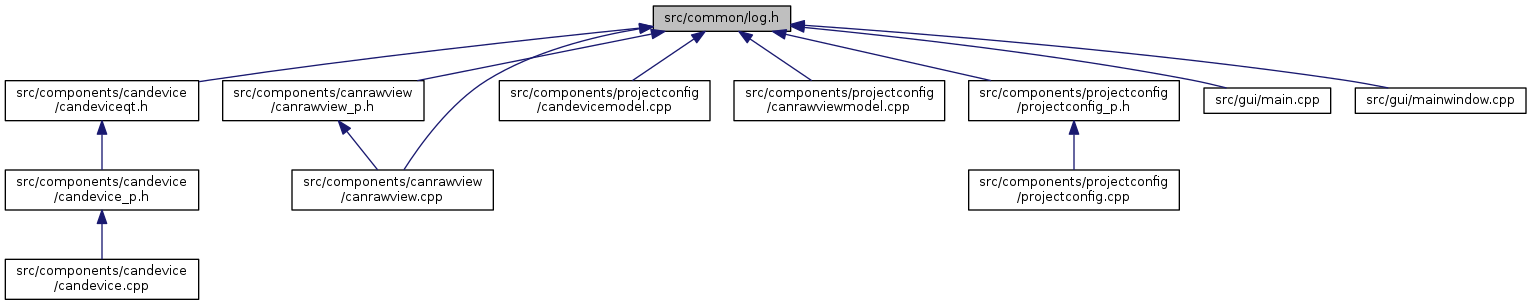
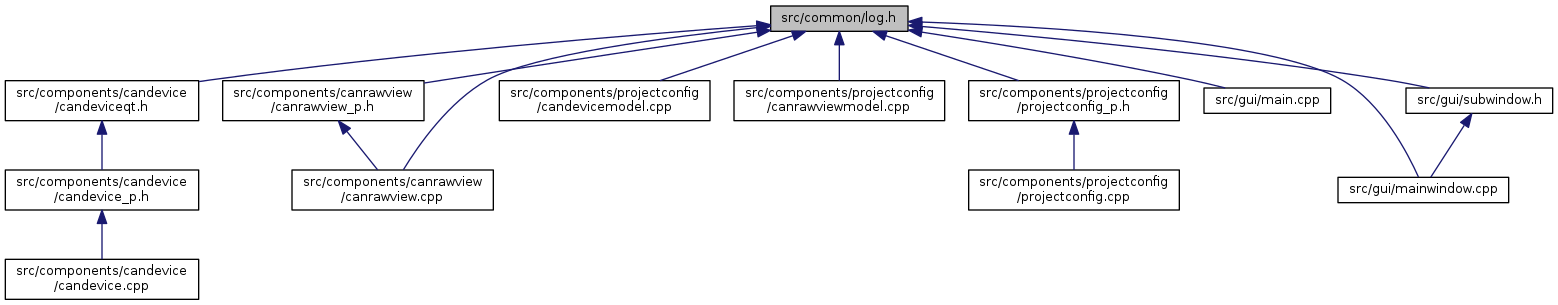
Deploy code docs to GitHub Pages Travis build: 318
Commit: 55465b2704b2b1ba9fbbc4ec79028f995d7c5a07

diff --git a/master/subwindow_8h_source.html b/master/subwindow_8h_source.html
@@ -108,8 +108,13 @@ $(document).ready(function(){initNavTree('subwindow_8h_source.html','');});
 <div class="title">subwindow.h</div>  </div>
 </div><!--header-->
 <div class="contents">
-<a href="subwindow_8h.html">Go to the documentation of this file.</a><div class="fragment"><div class="line"><a name="l00001"></a><span class="lineno">    1</span>&#160;<span class="preprocessor">#ifndef __SUBWINDOW_H</span></div><div class="line"><a name="l00002"></a><span class="lineno">    2</span>&#160;<span class="preprocessor">#define __SUBWINDOW_H</span></div><div class="line"><a name="l00003"></a><span class="lineno">    3</span>&#160;</div><div class="line"><a name="l00004"></a><span class="lineno">    4</span>&#160;<span class="preprocessor">#include &lt;QMdiSubWindow&gt;</span></div><div class="line"><a name="l00005"></a><span class="lineno">    5</span>&#160;<span class="preprocessor">#include &lt;QPushButton&gt;</span></div><div class="line"><a name="l00006"></a><span class="lineno">    6</span>&#160;</div><div class="line"><a name="l00007"></a><span class="lineno"><a class="line" href="struct_sub_window.html">    7</a></span>&#160;<span class="keyword">struct </span><a class="code" href="struct_sub_window.html">SubWindow</a> : <span class="keyword">public</span> QMdiSubWindow {</div><div class="line"><a name="l00008"></a><span class="lineno"><a class="line" href="struct_sub_window.html#a1b4b2dec3bd9137440c809bde3447f0c">    8</a></span>&#160;    <span class="keyword">virtual</span> <span class="keywordtype">void</span> <a class="code" href="struct_sub_window.html#a1b4b2dec3bd9137440c809bde3447f0c">closeEvent</a>(QCloseEvent* event)<span class="keyword"> override</span></div><div class="line"><a name="l00009"></a><span class="lineno">    9</span>&#160;<span class="keyword">    </span>{</div><div class="line"><a name="l00010"></a><span class="lineno">   10</span>&#160;        <a class="code" href="log_8h.html#a05b412e36545f9b557c32234fd8d0f30">cds_debug</a>(<span class="stringliteral">&quot;On closing&quot;</span>);</div><div class="line"><a name="l00011"></a><span class="lineno">   11</span>&#160;</div><div class="line"><a name="l00012"></a><span class="lineno">   12</span>&#160;        <span class="comment">// Allow to close the window but prevent deletion of the widget</span></div><div class="line"><a name="l00013"></a><span class="lineno">   13</span>&#160;        setWidget(<span class="keyword">nullptr</span>);</div><div class="line"><a name="l00014"></a><span class="lineno">   14</span>&#160;        QMdiSubWindow::closeEvent(event);</div><div class="line"><a name="l00015"></a><span class="lineno">   15</span>&#160;    }</div><div class="line"><a name="l00016"></a><span class="lineno">   16</span>&#160;};</div><div class="line"><a name="l00017"></a><span class="lineno">   17</span>&#160;</div><div class="line"><a name="l00018"></a><span class="lineno">   18</span>&#160;<span class="preprocessor">#endif </span><span class="comment">/* !__SUBWINDOW_H */</span><span class="preprocessor"></span></div><div class="ttc" id="struct_sub_window_html"><div class="ttname"><a href="struct_sub_window.html">SubWindow</a></div><div class="ttdef"><b>Definition:</b> subwindow.h:7</div></div>
-<div class="ttc" id="struct_sub_window_html_a1b4b2dec3bd9137440c809bde3447f0c"><div class="ttname"><a href="struct_sub_window.html#a1b4b2dec3bd9137440c809bde3447f0c">SubWindow::closeEvent</a></div><div class="ttdeci">virtual void closeEvent(QCloseEvent *event) override</div><div class="ttdef"><b>Definition:</b> subwindow.h:8</div></div>
+<a href="subwindow_8h.html">Go to the documentation of this file.</a><div class="fragment"><div class="line"><a name="l00001"></a><span class="lineno">    1</span>&#160;<span class="preprocessor">#ifndef __SUBWINDOW_H</span></div><div class="line"><a name="l00002"></a><span class="lineno">    2</span>&#160;<span class="preprocessor">#define __SUBWINDOW_H</span></div><div class="line"><a name="l00003"></a><span class="lineno">    3</span>&#160;</div><div class="line"><a name="l00004"></a><span class="lineno">    4</span>&#160;<span class="preprocessor">#include &lt;QMdiSubWindow&gt;</span></div><div class="line"><a name="l00005"></a><span class="lineno">    5</span>&#160;<span class="preprocessor">#include &lt;QPushButton&gt;</span></div><div class="line"><a name="l00006"></a><span class="lineno">    6</span>&#160;<span class="preprocessor">#include &lt;QSize&gt;</span></div><div class="line"><a name="l00007"></a><span class="lineno">    7</span>&#160;<span class="preprocessor">#include &lt;<a class="code" href="log_8h.html">log.h</a>&gt;</span></div><div class="line"><a name="l00008"></a><span class="lineno">    8</span>&#160;</div><div class="line"><a name="l00009"></a><span class="lineno"><a class="line" href="struct_sub_window.html">    9</a></span>&#160;<span class="keyword">struct </span><a class="code" href="struct_sub_window.html">SubWindow</a> : <span class="keyword">public</span> QMdiSubWindow {</div><div class="line"><a name="l00010"></a><span class="lineno"><a class="line" href="struct_sub_window.html#a6f9daf9f3cf4ad881f3b452c32778b1d">   10</a></span>&#160;    <a class="code" href="struct_sub_window.html#a6f9daf9f3cf4ad881f3b452c32778b1d">SubWindow</a>(QWidget* parent)</div><div class="line"><a name="l00011"></a><span class="lineno">   11</span>&#160;        : QMdiSubWindow(parent)</div><div class="line"><a name="l00012"></a><span class="lineno">   12</span>&#160;    {</div><div class="line"><a name="l00013"></a><span class="lineno">   13</span>&#160;        setAttribute(Qt::WA_DeleteOnClose);</div><div class="line"><a name="l00014"></a><span class="lineno">   14</span>&#160;    }</div><div class="line"><a name="l00015"></a><span class="lineno">   15</span>&#160;</div><div class="line"><a name="l00016"></a><span class="lineno"><a class="line" href="struct_sub_window.html#a1b4b2dec3bd9137440c809bde3447f0c">   16</a></span>&#160;    <span class="keyword">virtual</span> <span class="keywordtype">void</span> <a class="code" href="struct_sub_window.html#a1b4b2dec3bd9137440c809bde3447f0c">closeEvent</a>(QCloseEvent* event)<span class="keyword"> override</span></div><div class="line"><a name="l00017"></a><span class="lineno">   17</span>&#160;<span class="keyword">    </span>{</div><div class="line"><a name="l00018"></a><span class="lineno">   18</span>&#160;        <a class="code" href="log_8h.html#a05b412e36545f9b557c32234fd8d0f30">cds_debug</a>(<span class="stringliteral">&quot;On closing&quot;</span>);</div><div class="line"><a name="l00019"></a><span class="lineno">   19</span>&#160;</div><div class="line"><a name="l00020"></a><span class="lineno">   20</span>&#160;        <span class="comment">// Allow to close the window but prevent deletion of the widget</span></div><div class="line"><a name="l00021"></a><span class="lineno">   21</span>&#160;        setWidget(<span class="keyword">nullptr</span>);</div><div class="line"><a name="l00022"></a><span class="lineno">   22</span>&#160;        QMdiSubWindow::closeEvent(event);</div><div class="line"><a name="l00023"></a><span class="lineno">   23</span>&#160;    }</div><div class="line"><a name="l00024"></a><span class="lineno">   24</span>&#160;</div><div class="line"><a name="l00025"></a><span class="lineno"><a class="line" href="struct_sub_window.html#a81428e95192aa942f6a4b89e64b51b06">   25</a></span>&#160;    <span class="keyword">virtual</span> QSize <a class="code" href="struct_sub_window.html#a81428e95192aa942f6a4b89e64b51b06">minimumSizeHint</a>()<span class="keyword"> const override</span></div><div class="line"><a name="l00026"></a><span class="lineno">   26</span>&#160;<span class="keyword">    </span>{</div><div class="line"><a name="l00027"></a><span class="lineno">   27</span>&#160;        <span class="keywordflow">return</span> { 200, 100 };</div><div class="line"><a name="l00028"></a><span class="lineno">   28</span>&#160;    }</div><div class="line"><a name="l00029"></a><span class="lineno">   29</span>&#160;</div><div class="line"><a name="l00030"></a><span class="lineno"><a class="line" href="struct_sub_window.html#aeeea59c37ad33ad7160a5831734d9181">   30</a></span>&#160;    <span class="keyword">virtual</span> QSize <a class="code" href="struct_sub_window.html#aeeea59c37ad33ad7160a5831734d9181">sizeHint</a>()<span class="keyword"> const override</span></div><div class="line"><a name="l00031"></a><span class="lineno">   31</span>&#160;<span class="keyword">    </span>{</div><div class="line"><a name="l00032"></a><span class="lineno">   32</span>&#160;        QSize size;</div><div class="line"><a name="l00033"></a><span class="lineno">   33</span>&#160;</div><div class="line"><a name="l00034"></a><span class="lineno">   34</span>&#160;        <span class="keywordflow">if</span> (parentWidget()) {</div><div class="line"><a name="l00035"></a><span class="lineno">   35</span>&#160;            size.setHeight(parentWidget()-&gt;size().height() / 2);</div><div class="line"><a name="l00036"></a><span class="lineno">   36</span>&#160;            size.setWidth(parentWidget()-&gt;size().width() / 2);</div><div class="line"><a name="l00037"></a><span class="lineno">   37</span>&#160;        } <span class="keywordflow">else</span> {</div><div class="line"><a name="l00038"></a><span class="lineno">   38</span>&#160;            <a class="code" href="log_8h.html#aadcd3161833f6a2188d288cfdc04d791">cds_error</a>(<span class="stringliteral">&quot;parentWidget() is NULL!&quot;</span>);</div><div class="line"><a name="l00039"></a><span class="lineno">   39</span>&#160;        }</div><div class="line"><a name="l00040"></a><span class="lineno">   40</span>&#160;</div><div class="line"><a name="l00041"></a><span class="lineno">   41</span>&#160;        <span class="keywordflow">return</span> size;</div><div class="line"><a name="l00042"></a><span class="lineno">   42</span>&#160;    }</div><div class="line"><a name="l00043"></a><span class="lineno">   43</span>&#160;};</div><div class="line"><a name="l00044"></a><span class="lineno">   44</span>&#160;</div><div class="line"><a name="l00045"></a><span class="lineno">   45</span>&#160;<span class="preprocessor">#endif </span><span class="comment">/* !__SUBWINDOW_H */</span><span class="preprocessor"></span></div><div class="ttc" id="log_8h_html_aadcd3161833f6a2188d288cfdc04d791"><div class="ttname"><a href="log_8h.html#aadcd3161833f6a2188d288cfdc04d791">cds_error</a></div><div class="ttdeci">#define cds_error(fmt,...)</div><div class="ttdef"><b>Definition:</b> log.h:19</div></div>
+<div class="ttc" id="struct_sub_window_html_a81428e95192aa942f6a4b89e64b51b06"><div class="ttname"><a href="struct_sub_window.html#a81428e95192aa942f6a4b89e64b51b06">SubWindow::minimumSizeHint</a></div><div class="ttdeci">virtual QSize minimumSizeHint() const override</div><div class="ttdef"><b>Definition:</b> subwindow.h:25</div></div>
+<div class="ttc" id="struct_sub_window_html_aeeea59c37ad33ad7160a5831734d9181"><div class="ttname"><a href="struct_sub_window.html#aeeea59c37ad33ad7160a5831734d9181">SubWindow::sizeHint</a></div><div class="ttdeci">virtual QSize sizeHint() const override</div><div class="ttdef"><b>Definition:</b> subwindow.h:30</div></div>
+<div class="ttc" id="struct_sub_window_html"><div class="ttname"><a href="struct_sub_window.html">SubWindow</a></div><div class="ttdef"><b>Definition:</b> subwindow.h:9</div></div>
+<div class="ttc" id="struct_sub_window_html_a1b4b2dec3bd9137440c809bde3447f0c"><div class="ttname"><a href="struct_sub_window.html#a1b4b2dec3bd9137440c809bde3447f0c">SubWindow::closeEvent</a></div><div class="ttdeci">virtual void closeEvent(QCloseEvent *event) override</div><div class="ttdef"><b>Definition:</b> subwindow.h:16</div></div>
+<div class="ttc" id="struct_sub_window_html_a6f9daf9f3cf4ad881f3b452c32778b1d"><div class="ttname"><a href="struct_sub_window.html#a6f9daf9f3cf4ad881f3b452c32778b1d">SubWindow::SubWindow</a></div><div class="ttdeci">SubWindow(QWidget *parent)</div><div class="ttdef"><b>Definition:</b> subwindow.h:10</div></div>
+<div class="ttc" id="log_8h_html"><div class="ttname"><a href="log_8h.html">log.h</a></div></div>
 <div class="ttc" id="log_8h_html_a05b412e36545f9b557c32234fd8d0f30"><div class="ttname"><a href="log_8h.html#a05b412e36545f9b557c32234fd8d0f30">cds_debug</a></div><div class="ttdeci">#define cds_debug(fmt,...)</div><div class="ttdef"><b>Definition:</b> log.h:11</div></div>
 </div><!-- fragment --></div><!-- contents -->
 </div><!-- doc-content -->

diff --git a/master/struct_sub_window.html b/master/struct_sub_window.html
@@ -132,9 +132,40 @@ Collaboration diagram for SubWindow:</div>
 <table class="memberdecls">
 <tr class="heading"><td colspan="2"><h2 class="groupheader"><a name="pub-methods"></a>
 Public Member Functions</h2></td></tr>
+<tr class="memitem:a6f9daf9f3cf4ad881f3b452c32778b1d"><td class="memItemLeft" align="right" valign="top">&#160;</td><td class="memItemRight" valign="bottom"><a class="el" href="struct_sub_window.html#a6f9daf9f3cf4ad881f3b452c32778b1d">SubWindow</a> (QWidget *parent)</td></tr>
+<tr class="separator:a6f9daf9f3cf4ad881f3b452c32778b1d"><td class="memSeparator" colspan="2">&#160;</td></tr>
 <tr class="memitem:a1b4b2dec3bd9137440c809bde3447f0c"><td class="memItemLeft" align="right" valign="top">virtual void&#160;</td><td class="memItemRight" valign="bottom"><a class="el" href="struct_sub_window.html#a1b4b2dec3bd9137440c809bde3447f0c">closeEvent</a> (QCloseEvent *event) override</td></tr>
 <tr class="separator:a1b4b2dec3bd9137440c809bde3447f0c"><td class="memSeparator" colspan="2">&#160;</td></tr>
+<tr class="memitem:a81428e95192aa942f6a4b89e64b51b06"><td class="memItemLeft" align="right" valign="top">virtual QSize&#160;</td><td class="memItemRight" valign="bottom"><a class="el" href="struct_sub_window.html#a81428e95192aa942f6a4b89e64b51b06">minimumSizeHint</a> () const override</td></tr>
+<tr class="separator:a81428e95192aa942f6a4b89e64b51b06"><td class="memSeparator" colspan="2">&#160;</td></tr>
+<tr class="memitem:aeeea59c37ad33ad7160a5831734d9181"><td class="memItemLeft" align="right" valign="top">virtual QSize&#160;</td><td class="memItemRight" valign="bottom"><a class="el" href="struct_sub_window.html#aeeea59c37ad33ad7160a5831734d9181">sizeHint</a> () const override</td></tr>
+<tr class="separator:aeeea59c37ad33ad7160a5831734d9181"><td class="memSeparator" colspan="2">&#160;</td></tr>
 </table>
+<h2 class="groupheader">Constructor &amp; Destructor Documentation</h2>
+<a class="anchor" id="a6f9daf9f3cf4ad881f3b452c32778b1d"></a>
+<div class="memitem">
+<div class="memproto">
+<table class="mlabels">
+  <tr>
+  <td class="mlabels-left">
+      <table class="memname">
+        <tr>
+          <td class="memname">SubWindow::SubWindow </td>
+          <td>(</td>
+          <td class="paramtype">QWidget *&#160;</td>
+          <td class="paramname"><em>parent</em></td><td>)</td>
+          <td></td>
+        </tr>
+      </table>
+  </td>
+  <td class="mlabels-right">
+<span class="mlabels"><span class="mlabel">inline</span></span>  </td>
+  </tr>
+</table>
+</div><div class="memdoc">
+
+</div>
+</div>
 <h2 class="groupheader">Member Function Documentation</h2>
 <a class="anchor" id="a1b4b2dec3bd9137440c809bde3447f0c"></a>
 <div class="memitem">
@@ -149,6 +180,52 @@ Public Member Functions</h2></td></tr>
           <td class="paramtype">QCloseEvent *&#160;</td>
           <td class="paramname"><em>event</em></td><td>)</td>
           <td></td>
+        </tr>
+      </table>
+  </td>
+  <td class="mlabels-right">
+<span class="mlabels"><span class="mlabel">inline</span><span class="mlabel">override</span><span class="mlabel">virtual</span></span>  </td>
+  </tr>
+</table>
+</div><div class="memdoc">
+
+</div>
+</div>
+<a class="anchor" id="a81428e95192aa942f6a4b89e64b51b06"></a>
+<div class="memitem">
+<div class="memproto">
+<table class="mlabels">
+  <tr>
+  <td class="mlabels-left">
+      <table class="memname">
+        <tr>
+          <td class="memname">virtual QSize SubWindow::minimumSizeHint </td>
+          <td>(</td>
+          <td class="paramname"></td><td>)</td>
+          <td> const</td>
+        </tr>
+      </table>
+  </td>
+  <td class="mlabels-right">
+<span class="mlabels"><span class="mlabel">inline</span><span class="mlabel">override</span><span class="mlabel">virtual</span></span>  </td>
+  </tr>
+</table>
+</div><div class="memdoc">
+
+</div>
+</div>
+<a class="anchor" id="aeeea59c37ad33ad7160a5831734d9181"></a>
+<div class="memitem">
+<div class="memproto">
+<table class="mlabels">
+  <tr>
+  <td class="mlabels-left">
+      <table class="memname">
+        <tr>
+          <td class="memname">virtual QSize SubWindow::sizeHint </td>
+          <td>(</td>
+          <td class="paramname"></td><td>)</td>
+          <td> const</td>
         </tr>
       </table>
   </td>

diff --git a/master/search/functions_f.js b/master/search/functions_f.js
@@ -24,7 +24,9 @@ var searchData=
   ['setsimulationstate',['setSimulationState',['../class_can_raw_sender_private.html#ac2fd241370f1045c3735cb32d670eb31',1,'CanRawSenderPrivate::setSimulationState()'],['../class_new_line_manager.html#aa9e40fb8bda738c509ab9b9df60f2de1',1,'NewLineManager::SetSimulationState()']]],
   ['setsorting',['setSorting',['../struct_c_r_v_gui.html#ac9a2e89fe88079cbe80d6fd07d601f64',1,'CRVGui::setSorting()'],['../struct_c_r_v_gui_interface.html#aa11fdbb5d6e2a29997354b9537bda56a',1,'CRVGuiInterface::setSorting()']]],
   ['setuplogger',['setupLogger',['../main_8cpp.html#a677cf1dd7db1d278155bd2637971a267',1,'main.cpp']]],
+  ['sizehint',['sizeHint',['../struct_sub_window.html#aeeea59c37ad33ad7160a5831734d9181',1,'SubWindow']]],
   ['startsimulation',['startSimulation',['../struct_component_interface.html#a011c8464c9d77dcfd57f968655a05a19',1,'ComponentInterface::startSimulation()'],['../class_can_device.html#a80818d00bba585728b8e245f5bdaf4e7',1,'CanDevice::startSimulation()'],['../class_can_raw_sender.html#ad518a89ad799d2a7284ba5ad54f1b3e5',1,'CanRawSender::startSimulation()'],['../class_can_raw_view.html#a07b2bfca592ad37fcd170343fc904793',1,'CanRawView::startSimulation()'],['../class_project_config.html#a18f37c77fc6bc6840e9131c4f172c1fc',1,'ProjectConfig::startSimulation()']]],
   ['status',['status',['../class_can_device_data_out.html#aa58fee746094174d0927b1307d0597c3',1,'CanDeviceDataOut']]],
-  ['stopsimulation',['stopSimulation',['../struct_component_interface.html#ae5a20c5ff68df62ff745cae181d75772',1,'ComponentInterface::stopSimulation()'],['../class_can_device.html#a8d6a7e02abfd305219e78db47764d7b3',1,'CanDevice::stopSimulation()'],['../class_can_raw_sender.html#acf4ae8a4bbab2282a27d2a6001215802',1,'CanRawSender::stopSimulation()'],['../class_can_raw_view.html#a1ea137e8b0b4e6e23a7d84a9c7218ddc',1,'CanRawView::stopSimulation()'],['../class_project_config.html#a9a43e8a6f85ee87ac61799a8a9918772',1,'ProjectConfig::stopSimulation()']]]
+  ['stopsimulation',['stopSimulation',['../struct_component_interface.html#ae5a20c5ff68df62ff745cae181d75772',1,'ComponentInterface::stopSimulation()'],['../class_can_device.html#a8d6a7e02abfd305219e78db47764d7b3',1,'CanDevice::stopSimulation()'],['../class_can_raw_sender.html#acf4ae8a4bbab2282a27d2a6001215802',1,'CanRawSender::stopSimulation()'],['../class_can_raw_view.html#a1ea137e8b0b4e6e23a7d84a9c7218ddc',1,'CanRawView::stopSimulation()'],['../class_project_config.html#a9a43e8a6f85ee87ac61799a8a9918772',1,'ProjectConfig::stopSimulation()']]],
+  ['subwindow',['SubWindow',['../struct_sub_window.html#a6f9daf9f3cf4ad881f3b452c32778b1d',1,'SubWindow']]]
 ];

diff --git a/master/search/all_12.js b/master/search/all_12.js
@@ -26,10 +26,11 @@ var searchData=
   ['setsimulationstate',['setSimulationState',['../class_can_raw_sender_private.html#ac2fd241370f1045c3735cb32d670eb31',1,'CanRawSenderPrivate::setSimulationState()'],['../class_new_line_manager.html#aa9e40fb8bda738c509ab9b9df60f2de1',1,'NewLineManager::SetSimulationState()']]],
   ['setsorting',['setSorting',['../struct_c_r_v_gui.html#ac9a2e89fe88079cbe80d6fd07d601f64',1,'CRVGui::setSorting()'],['../struct_c_r_v_gui_interface.html#aa11fdbb5d6e2a29997354b9537bda56a',1,'CRVGuiInterface::setSorting()']]],
   ['setuplogger',['setupLogger',['../main_8cpp.html#a677cf1dd7db1d278155bd2637971a267',1,'main.cpp']]],
+  ['sizehint',['sizeHint',['../struct_sub_window.html#aeeea59c37ad33ad7160a5831734d9181',1,'SubWindow']]],
   ['startsimulation',['startSimulation',['../struct_component_interface.html#a011c8464c9d77dcfd57f968655a05a19',1,'ComponentInterface::startSimulation()'],['../class_can_device.html#a80818d00bba585728b8e245f5bdaf4e7',1,'CanDevice::startSimulation()'],['../class_can_raw_sender.html#ad518a89ad799d2a7284ba5ad54f1b3e5',1,'CanRawSender::startSimulation()'],['../class_can_raw_view.html#a07b2bfca592ad37fcd170343fc904793',1,'CanRawView::startSimulation()'],['../class_project_config.html#a18f37c77fc6bc6840e9131c4f172c1fc',1,'ProjectConfig::startSimulation()']]],
   ['status',['status',['../class_can_device_data_out.html#aa58fee746094174d0927b1307d0597c3',1,'CanDeviceDataOut']]],
   ['stopsimulation',['stopSimulation',['../struct_component_interface.html#ae5a20c5ff68df62ff745cae181d75772',1,'ComponentInterface::stopSimulation()'],['../class_can_device.html#a8d6a7e02abfd305219e78db47764d7b3',1,'CanDevice::stopSimulation()'],['../class_can_raw_sender.html#acf4ae8a4bbab2282a27d2a6001215802',1,'CanRawSender::stopSimulation()'],['../class_can_raw_view.html#a1ea137e8b0b4e6e23a7d84a9c7218ddc',1,'CanRawView::stopSimulation()'],['../class_project_config.html#a9a43e8a6f85ee87ac61799a8a9918772',1,'ProjectConfig::stopSimulation()']]],
-  ['subwindow',['SubWindow',['../struct_sub_window.html',1,'']]],
+  ['subwindow',['SubWindow',['../struct_sub_window.html',1,'SubWindow'],['../struct_sub_window.html#a6f9daf9f3cf4ad881f3b452c32778b1d',1,'SubWindow::SubWindow()']]],
   ['subwindow_2eh',['subwindow.h',['../subwindow_8h.html',1,'']]],
   ['swap',['swap',['../class_enum_iterator.html#a48c1f507be738412e5a54628f69c403d',1,'EnumIterator']]]
 ];

diff --git a/master/dir_000011_000001.html b/master/dir_000011_000001.html
@@ -98,7 +98,7 @@ $(document).ready(function(){initNavTree('dir_99d0482cf009f9d97a0877749b817f19.h
 </div>
 
 <div class="contents">
-<h3>gui &rarr; common Relation</h3><table class="dirtab"><tr class="dirtab"><th class="dirtab">File in src/gui</th><th class="dirtab">Includes file in src/common</th></tr><tr class="dirtab"><td class="dirtab"><a class="el" href="main_8cpp.html">main.cpp</a></td><td class="dirtab"><a class="el" href="log_8h.html">log.h</a></td></tr><tr class="dirtab"><td class="dirtab"><a class="el" href="mainwindow_8cpp.html">mainwindow.cpp</a></td><td class="dirtab"><a class="el" href="log_8h.html">log.h</a></td></tr><tr class="dirtab"><td class="dirtab"><a class="el" href="mainwindow_8cpp.html">mainwindow.cpp</a></td><td class="dirtab"><a class="el" href="modelvisitor_8h.html">modelvisitor.h</a></td></tr></table></div><!-- contents -->
+<h3>gui &rarr; common Relation</h3><table class="dirtab"><tr class="dirtab"><th class="dirtab">File in src/gui</th><th class="dirtab">Includes file in src/common</th></tr><tr class="dirtab"><td class="dirtab"><a class="el" href="main_8cpp.html">main.cpp</a></td><td class="dirtab"><a class="el" href="log_8h.html">log.h</a></td></tr><tr class="dirtab"><td class="dirtab"><a class="el" href="mainwindow_8cpp.html">mainwindow.cpp</a></td><td class="dirtab"><a class="el" href="log_8h.html">log.h</a></td></tr><tr class="dirtab"><td class="dirtab"><a class="el" href="mainwindow_8cpp.html">mainwindow.cpp</a></td><td class="dirtab"><a class="el" href="modelvisitor_8h.html">modelvisitor.h</a></td></tr><tr class="dirtab"><td class="dirtab"><a class="el" href="subwindow_8h.html">subwindow.h</a></td><td class="dirtab"><a class="el" href="log_8h.html">log.h</a></td></tr></table></div><!-- contents -->
 </div><!-- doc-content -->
 <!-- start footer part -->
 <div id="nav-path" class="navpath"><!-- id is needed for treeview function! -->

diff --git a/master/mainwindow_8cpp.html b/master/mainwindow_8cpp.html
@@ -124,13 +124,13 @@ Include dependency graph for mainwindow.cpp:</div>
 <div class="dyncontent">
 <div class="center"><img src="mainwindow_8cpp__incl.png" border="0" usemap="#src_2gui_2mainwindow_8cpp" alt=""/></div>
 <map name="src_2gui_2mainwindow_8cpp" id="src_2gui_2mainwindow_8cpp">
-<area shape="rect" id="node2" href="mainwindow_8h.html" title="mainwindow.h" alt="" coords="337,80,447,107"/>
-<area shape="rect" id="node7" href="log_8h.html" title="log.h" alt="" coords="701,80,755,107"/>
-<area shape="rect" id="node12" href="modelvisitor_8h.html" title="modelvisitor.h" alt="" coords="1181,80,1291,107"/>
-<area shape="rect" id="node20" href="subwindow_8h.html" title="subwindow.h" alt="" coords="1316,80,1417,107"/>
+<area shape="rect" id="node2" href="mainwindow_8h.html" title="mainwindow.h" alt="" coords="323,80,434,107"/>
+<area shape="rect" id="node7" href="log_8h.html" title="log.h" alt="" coords="601,155,655,181"/>
+<area shape="rect" id="node12" href="modelvisitor_8h.html" title="modelvisitor.h" alt="" coords="1073,80,1183,107"/>
+<area shape="rect" id="node20" href="subwindow_8h.html" title="subwindow.h" alt="" coords="775,80,876,107"/>
 <area shape="rect" id="node5" href="projectconfig_8h.html" title="projectconfig/projectconfig.h" alt="" coords="208,155,411,181"/>
-<area shape="rect" id="node15" href="visitor_8h.html" title="visitor.h" alt="" coords="1273,155,1343,181"/>
-<area shape="rect" id="node19" href="visitablewith_8h.html" title="visitablewith.h" alt="" coords="1398,229,1509,256"/>
+<area shape="rect" id="node15" href="visitor_8h.html" title="visitor.h" alt="" coords="1287,155,1358,181"/>
+<area shape="rect" id="node19" href="visitablewith_8h.html" title="visitablewith.h" alt="" coords="1467,229,1578,256"/>
 </map>
 </div>
 </div></div><!-- contents -->

diff --git a/master/struct_sub_window-members.html b/master/struct_sub_window-members.html
@@ -114,6 +114,9 @@ $(document).ready(function(){initNavTree('struct_sub_window.html','');});
 <p>This is the complete list of members for <a class="el" href="struct_sub_window.html">SubWindow</a>, including all inherited members.</p>
 <table class="directory">
   <tr class="even"><td class="entry"><a class="el" href="struct_sub_window.html#a1b4b2dec3bd9137440c809bde3447f0c">closeEvent</a>(QCloseEvent *event) override</td><td class="entry"><a class="el" href="struct_sub_window.html">SubWindow</a></td><td class="entry"><span class="mlabel">inline</span><span class="mlabel">virtual</span></td></tr>
+  <tr><td class="entry"><a class="el" href="struct_sub_window.html#a81428e95192aa942f6a4b89e64b51b06">minimumSizeHint</a>() const override</td><td class="entry"><a class="el" href="struct_sub_window.html">SubWindow</a></td><td class="entry"><span class="mlabel">inline</span><span class="mlabel">virtual</span></td></tr>
+  <tr class="even"><td class="entry"><a class="el" href="struct_sub_window.html#aeeea59c37ad33ad7160a5831734d9181">sizeHint</a>() const override</td><td class="entry"><a class="el" href="struct_sub_window.html">SubWindow</a></td><td class="entry"><span class="mlabel">inline</span><span class="mlabel">virtual</span></td></tr>
+  <tr><td class="entry"><a class="el" href="struct_sub_window.html#a6f9daf9f3cf4ad881f3b452c32778b1d">SubWindow</a>(QWidget *parent)</td><td class="entry"><a class="el" href="struct_sub_window.html">SubWindow</a></td><td class="entry"><span class="mlabel">inline</span></td></tr>
 </table></div><!-- contents -->
 </div><!-- doc-content -->
 <!-- start footer part -->

diff --git a/master/search/functions_a.js b/master/search/functions_a.js
@@ -5,6 +5,7 @@ var searchData=
   ['mainwidgetdocked',['mainWidgetDocked',['../struct_component_interface.html#a084214e8ffdc817fac7590940b20e1b6',1,'ComponentInterface::mainWidgetDocked()'],['../class_can_device.html#a297ef1b08779b4f98b50970ec431d6fa',1,'CanDevice::mainWidgetDocked()'],['../class_can_raw_sender.html#ab5c48722c605bef9e9c6ca1d7a9f3b97',1,'CanRawSender::mainWidgetDocked()'],['../class_can_raw_view.html#aecdd9f260504d86551091a5eeb110d2b',1,'CanRawView::mainWidgetDocked()']]],
   ['mainwidgetdocktoggled',['mainWidgetDockToggled',['../struct_component_interface.html#a8ce5af2992a449a0b474fced56bbedd4',1,'ComponentInterface::mainWidgetDockToggled()'],['../class_can_device.html#aec4d227205310884966076083b349c52',1,'CanDevice::mainWidgetDockToggled()'],['../class_can_raw_sender.html#a5307741f87bef15571781f7b3d4a434f',1,'CanRawSender::mainWidgetDockToggled()'],['../class_can_raw_view.html#afa5d8fe52213a5aaa96dd125eda02e26',1,'CanRawView::mainWidgetDockToggled()']]],
   ['mainwindow',['MainWindow',['../class_main_window.html#a996c5a2b6f77944776856f08ec30858d',1,'MainWindow']]],
+  ['minimumsizehint',['minimumSizeHint',['../struct_sub_window.html#a81428e95192aa942f6a4b89e64b51b06',1,'SubWindow']]],
   ['modelname',['modelName',['../class_component_model.html#a4a66bba479200abb869f26d8fbc0be83',1,'ComponentModel']]],
   ['modeltoolbutton',['ModelToolButton',['../struct_model_tool_button.html#a32c697b0f109a436281eae609870668e',1,'ModelToolButton']]]
 ];

diff --git a/master/log_8h.html b/master/log_8h.html
@@ -135,7 +135,8 @@ This graph shows which files directly or indirectly include this file:</div>
 <area shape="rect" id="node8" href="canrawviewmodel_8cpp.html" title="src/components/projectconfig\l/canrawviewmodel.cpp" alt="" coords="734,80,945,121"/>
 <area shape="rect" id="node9" href="projectconfig__p_8h.html" title="src/components/projectconfig\l/projectconfig_p.h" alt="" coords="969,80,1179,121"/>
 <area shape="rect" id="node11" href="main_8cpp.html" title="src/gui/main.cpp" alt="" coords="1204,87,1331,114"/>
-<area shape="rect" id="node12" href="mainwindow_8cpp.html" title="src/gui/mainwindow.cpp" alt="" coords="1355,87,1526,114"/>
+<area shape="rect" id="node12" href="mainwindow_8cpp.html" title="src/gui/mainwindow.cpp" alt="" coords="1338,177,1509,203"/>
+<area shape="rect" id="node13" href="subwindow_8h.html" title="src/gui/subwindow.h" alt="" coords="1406,87,1553,114"/>
 <area shape="rect" id="node3" href="candevice__p_8h.html" title="src/components/candevice\l/candevice_p.h" alt="" coords="5,169,199,211"/>
 <area shape="rect" id="node4" href="candevice_8cpp.html" title="src/components/candevice\l/candevice.cpp" alt="" coords="5,259,199,300"/>
 <area shape="rect" id="node10" href="projectconfig_8cpp.html" title="src/components/projectconfig\l/projectconfig.cpp" alt="" coords="969,169,1179,211"/>

diff --git a/master/functions_s.html b/master/functions_s.html
@@ -250,6 +250,9 @@ $(document).ready(function(){initNavTree('functions_s.html','');});
 : <a class="el" href="struct_c_r_v_gui.html#ac9a2e89fe88079cbe80d6fd07d601f64">CRVGui</a>
 , <a class="el" href="struct_c_r_v_gui_interface.html#aa11fdbb5d6e2a29997354b9537bda56a">CRVGuiInterface</a>
 </li>
+<li>sizeHint()
+: <a class="el" href="struct_sub_window.html#aeeea59c37ad33ad7160a5831734d9181">SubWindow</a>
+</li>
 <li>startSimulation()
 : <a class="el" href="class_can_device.html#a80818d00bba585728b8e245f5bdaf4e7">CanDevice</a>
 , <a class="el" href="class_can_raw_sender.html#ad518a89ad799d2a7284ba5ad54f1b3e5">CanRawSender</a>
@@ -266,6 +269,9 @@ $(document).ready(function(){initNavTree('functions_s.html','');});
 , <a class="el" href="class_can_raw_view.html#a1ea137e8b0b4e6e23a7d84a9c7218ddc">CanRawView</a>
 , <a class="el" href="struct_component_interface.html#ae5a20c5ff68df62ff745cae181d75772">ComponentInterface</a>
 , <a class="el" href="class_project_config.html#a9a43e8a6f85ee87ac61799a8a9918772">ProjectConfig</a>
+</li>
+<li>SubWindow()
+: <a class="el" href="struct_sub_window.html#a6f9daf9f3cf4ad881f3b452c32778b1d">SubWindow</a>
 </li>
 <li>swap
 : <a class="el" href="class_enum_iterator.html#a48c1f507be738412e5a54628f69c403d">EnumIterator&lt; T, start, stop &gt;</a>

diff --git a/master/functions_func_s.html b/master/functions_func_s.html
@@ -245,6 +245,9 @@ $(document).ready(function(){initNavTree('functions_func_s.html','');});
 : <a class="el" href="struct_c_r_v_gui.html#ac9a2e89fe88079cbe80d6fd07d601f64">CRVGui</a>
 , <a class="el" href="struct_c_r_v_gui_interface.html#aa11fdbb5d6e2a29997354b9537bda56a">CRVGuiInterface</a>
 </li>
+<li>sizeHint()
+: <a class="el" href="struct_sub_window.html#aeeea59c37ad33ad7160a5831734d9181">SubWindow</a>
+</li>
 <li>startSimulation()
 : <a class="el" href="class_can_device.html#a80818d00bba585728b8e245f5bdaf4e7">CanDevice</a>
 , <a class="el" href="class_can_raw_sender.html#ad518a89ad799d2a7284ba5ad54f1b3e5">CanRawSender</a>
@@ -261,6 +264,9 @@ $(document).ready(function(){initNavTree('functions_func_s.html','');});
 , <a class="el" href="class_can_raw_view.html#a1ea137e8b0b4e6e23a7d84a9c7218ddc">CanRawView</a>
 , <a class="el" href="struct_component_interface.html#ae5a20c5ff68df62ff745cae181d75772">ComponentInterface</a>
 , <a class="el" href="class_project_config.html#a9a43e8a6f85ee87ac61799a8a9918772">ProjectConfig</a>
+</li>
+<li>SubWindow()
+: <a class="el" href="struct_sub_window.html#a6f9daf9f3cf4ad881f3b452c32778b1d">SubWindow</a>
 </li>
 </ul>
 </div><!-- contents -->

diff --git a/master/dir_99d0482cf009f9d97a0877749b817f19.html b/master/dir_99d0482cf009f9d97a0877749b817f19.html
@@ -117,7 +117,7 @@ Directory dependency graph for gui:</div>
 <area shape="rect" id="node2" href="dir_3c4c7c1a85608ccd561c026bec818e51.html" title="components" alt="" coords="5,148,108,196"/>
 <area shape="rect" id="edge1-headlabel" href="dir_000011_000003.html" title="1" alt="" coords="78,128,87,142"/>
 <area shape="rect" id="node3" href="dir_fdedb0aba14d44ce9d99bc100e026e6a.html" title="common" alt="" coords="61,244,140,292"/>
-<area shape="rect" id="edge2-headlabel" href="dir_000011_000001.html" title="3" alt="" coords="118,221,127,236"/>
+<area shape="rect" id="edge2-headlabel" href="dir_000011_000001.html" title="4" alt="" coords="118,221,127,236"/>
 <area shape="rect" id="edge3-headlabel" href="dir_000003_000001.html" title="18" alt="" coords="81,217,98,231"/>
 <area shape="rect" id="clust1" href="dir_68267d1309a1af8e8297ef4c3efbcdba.html" title="src" alt="" coords="54,16,147,111"/>
 </map>
